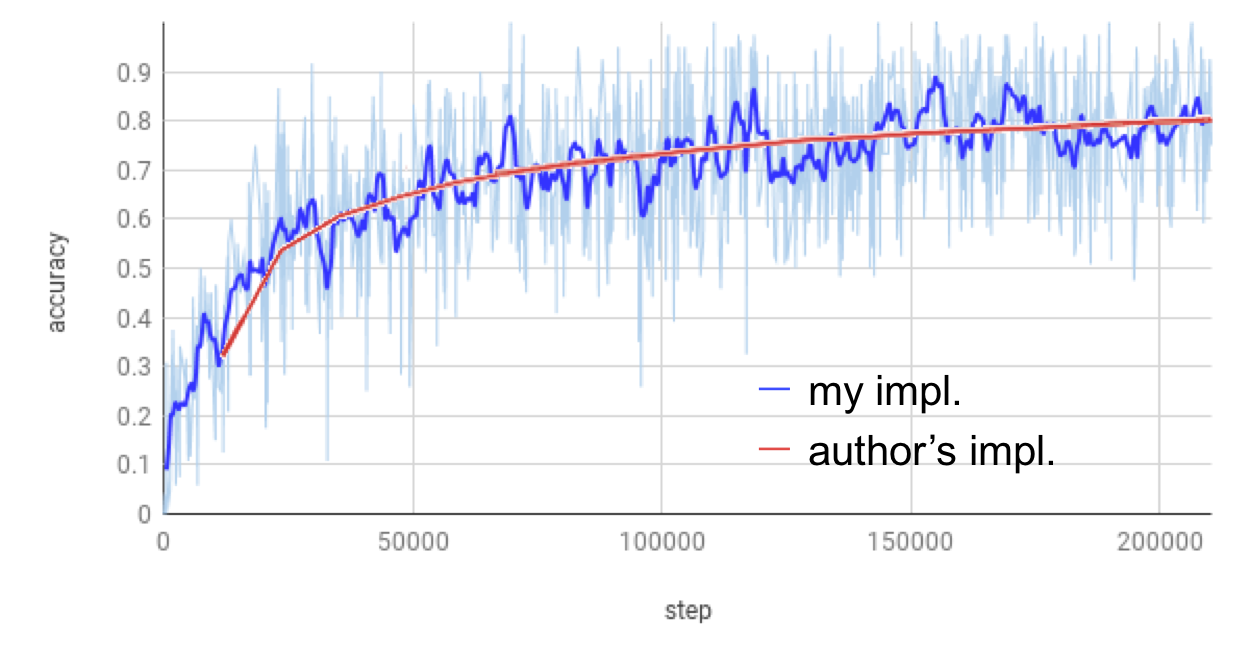
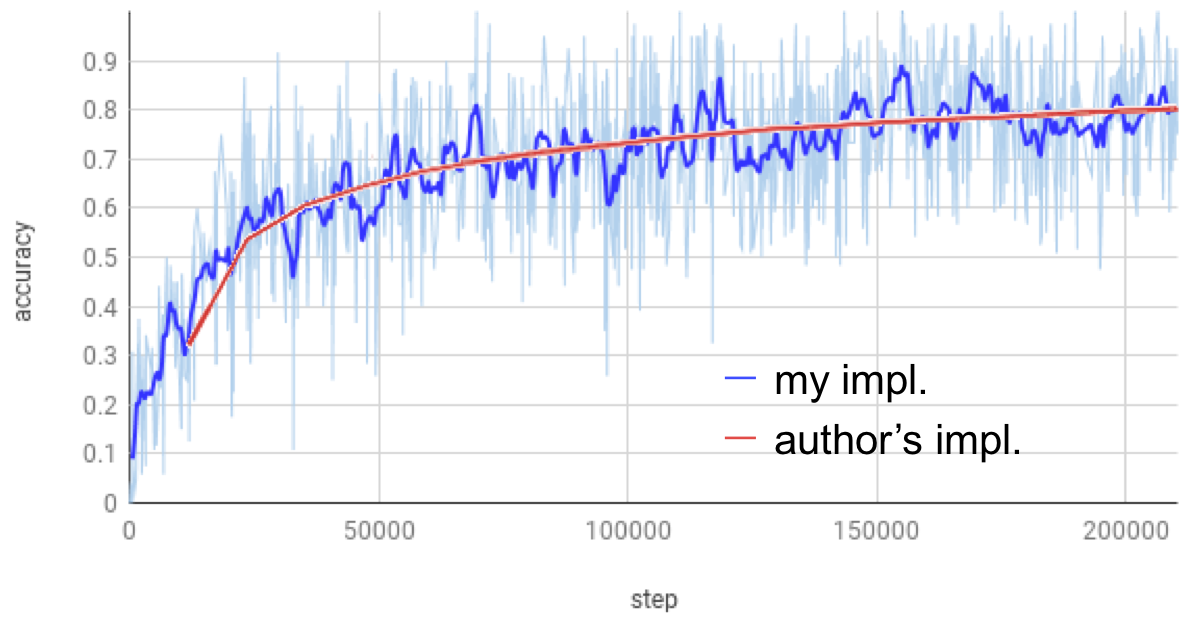
update README hgpose-ae

Changed region(s): [[0.0, 0.0307, 1.0, 0.9838]]

diff --git a/README.md b/README.md
@@ -28,16 +28,30 @@ python build.py  # be sure to have visible cuda device
 All the other folders represents different **tasks**. Each contains a training script `train.py` and definition of command-line options `opts.py`.
 - `hgpose`: training code for [Stacked Hourglass Networks for Human Pose Estimation](https://arxiv.org/abs/1603.06937). Single-Person.
 
-- `hgpose-ae`: training code for [Associative Embedding: End-to-end Learning for Joint Detection and Grouping](https://arxiv.org/abs/1611.05424). Multi-Person
+- `hgpose-ae`: training code for [Associative Embedding: End-to-end Learning for Joint Detection and Grouping](https://arxiv.org/abs/1611.05424). Multi-Person.s  
+**COCO test compare**, test on the images in [valid_id](data/coco/valid_id) 
+<figure style="display:table">
+    <img src="imgs/hgae_author's_coco_test.png" width="550">
+    <figcaption style="display:table-caption;caption-side:bottom">Author's pretrained checkpoint. 362 epochs with batch_size 32, 1000 iters per epoch and lr decay from 2e-4 to 1e-5 at 200000 iters.</figcaption>
+</figure>
+<figure style="display:table">
+    <img src="imgs/hgae_mine_coco_test.png" width="550">
+    <figcaption style="display:table-caption;caption-side:bottom">My training result at 150 epochs with batch_size 16, 2465 iters per epoch and consistent lr of 2e-4. Roughly equals to half the progress of author's pretrained checkpoint.</figcaption>
+</figure>
 
 - `advpose`: training code for [Self Adversarial Training for Human Pose Estimation](https://arxiv.org/abs/1707.02439). Single-Person.
 
-<img src="imgs/advpose_training_acc.png" width="550">
+<figure>
+    <img src="imgs/advpose_training_acc.png" width="550">
+    <figcaption>Comparison of training accuracy over steps</figcaption>
+</figure>
 
 - `advpose-ae`: training code combining `advpose` with `AE_loss`. Multi-Person.
+
 
 ## Known Issues
 - `advpose-ae`: Only supports single gpu. Multi-gpu training get stucked randomly. The problem seems to be caused by the AE_loss extension. 
 
 ## TODOs
 - [ ] visualization
+- [ ] example of usage
